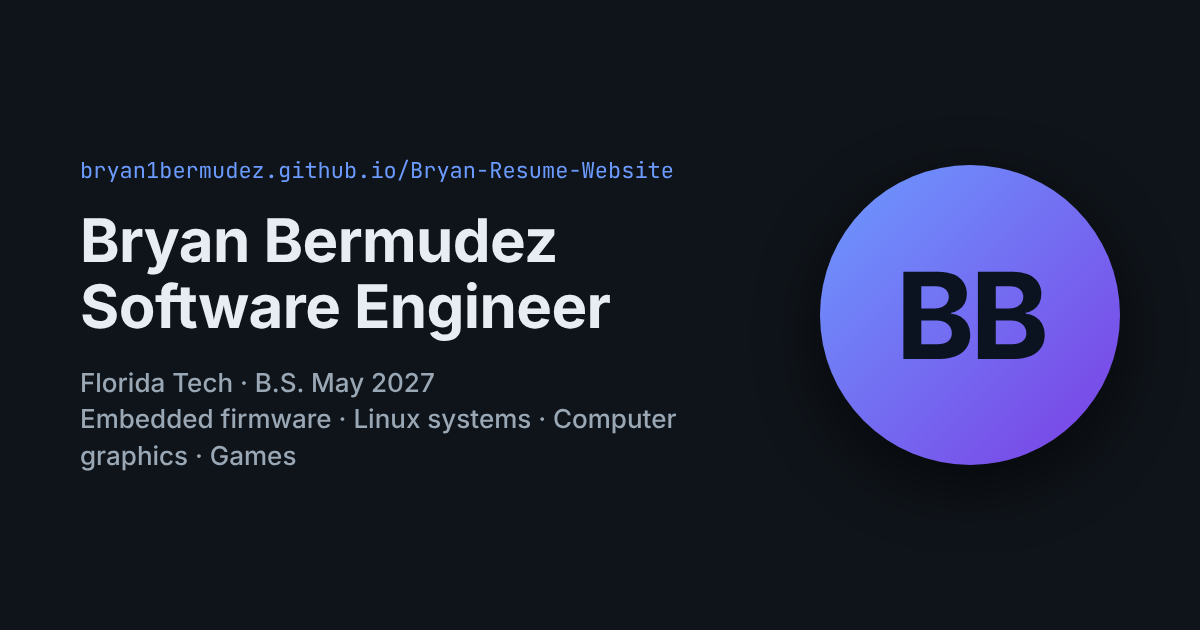
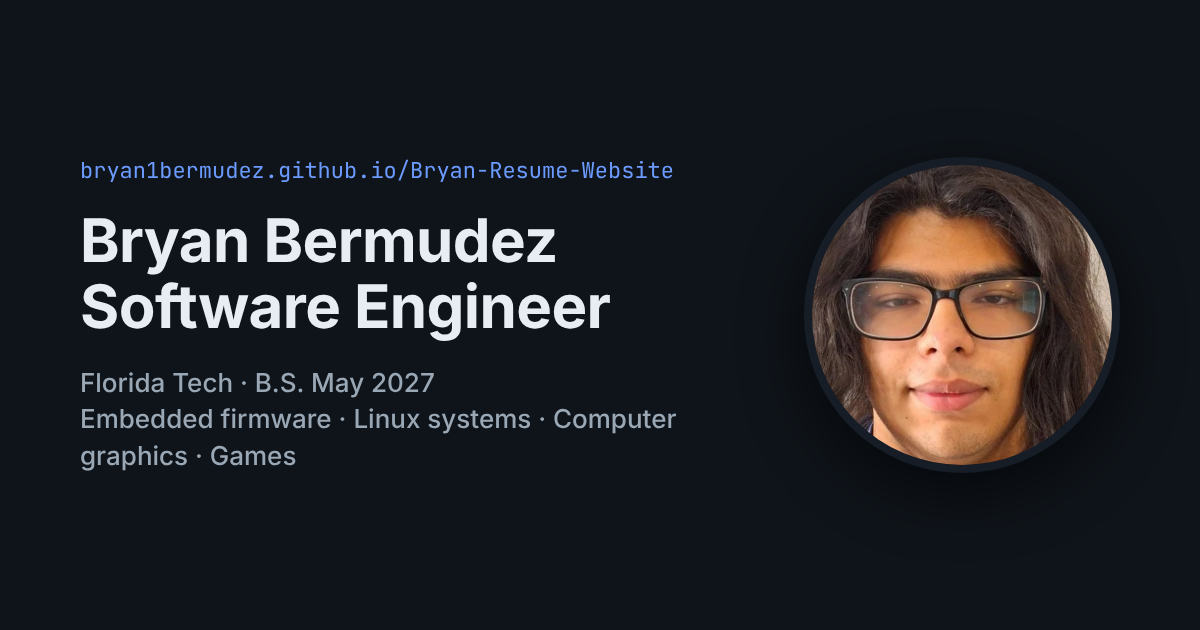
Add headshot to the hero and link preview
Claude-Session: https://claude.ai/code/session_013kDVh1anoeCYF1vySN2e97

Changed region(s): [[0.6783, 0.2413, 0.9558, 0.754]]

diff --git a/index.html b/index.html
@@ -59,8 +59,7 @@
         </div>
       </div>
       <div class="hero-side">
-        <!-- Swap for a headshot: <img class="avatar" src="assets/headshot.jpg" alt="Bryan Bermudez"> -->
-        <div class="avatar monogram" aria-hidden="true">BB</div>
+        <img class="avatar" src="assets/headshot.jpg" width="600" height="600" alt="Bryan Bermudez">
         <div class="now">
           <h2>Now</h2>
           <ul>
